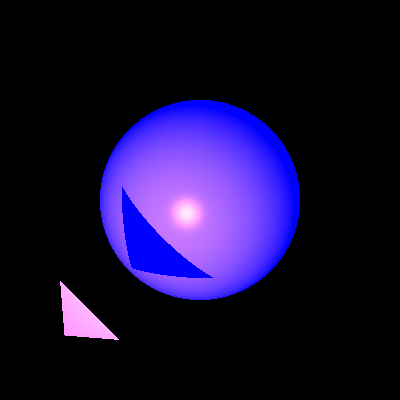
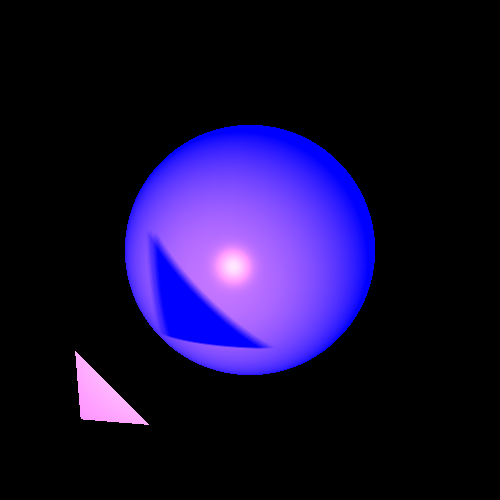
some refactoring

diff --git a/src/renderer/RayTracerBasic.java b/src/renderer/RayTracerBasic.java
@@ -14,6 +14,7 @@ import static primitives.Util.isZero;
 /**
  * The RayTracerBasic class is responsible for performing basic ray tracing operations.
  */
+
 public class RayTracerBasic extends RayTracerBase {
 
     private static final int MAX_NUMBER_OF_SHADOW_RAYS = 1;
@@ -104,12 +105,18 @@ public class RayTracerBasic extends RayTracerBase {
                 if (nl * nv > 0) { // sign(nl) == sing(nv)
                     Double3 ktr = transparency(lightSource, l,n,geo);
                     if (!ktr.product(k).lowerThan(MIN_CALC_COLOR_K)) {
-                        Color iL = lightSource.getIntensity(geo.point).scale(ktr);
-                        rayBeam = rayBeam.add(iL.scale(calcDiffusive(material, nl)), iL.scale(calcSpecular(material,nl, n, l , v)));
+                        // Color iL = lightSource.getIntensity(geo.point).scale(ktr);
+                        //rayBeam = rayBeam.add(iL.scale(calcDiffusive(material, nl)), iL.scale(calcSpecular(material,nl, n, l , v)));
+                        Double3 diff = calcDiffusive(material, nl);
+                        Double3 spec = calcSpecular(material, nl, n, l, v);
+                        Color Il = lightSource.getIntensity(geo.point).scale(diff.add(spec));
+                        rayBeam = rayBeam.add(Il.scale(ktr));
                     }
                 }
             }
-            color = color.add(rayBeam.reduce(vectors.size()));
+            rayBeam = rayBeam.reduce(vectors.size());
+            color = color.add(rayBeam);
+            // color = color.add(rayBeam.reduce(vectors.size()));
 
         }
         return color;
@@ -290,4 +297,3 @@ public class RayTracerBasic extends RayTracerBase {
         return intersections == null ? null : ray.findClosestGeoPoint(intersections);
     }
 }
-

diff --git a/src/lighting/PointLight.java b/src/lighting/PointLight.java
@@ -1,11 +1,13 @@
 package lighting;
 
+import geometries.Plane;
 import primitives.Color;
 import primitives.Point;
 import primitives.Vector;
 
 import java.util.LinkedList;
 import java.util.List;
+import java.util.Random;
 
 
 /**
@@ -98,8 +100,8 @@ public class PointLight extends Light implements LightSource {
     public List<Vector> getLightVectors(Point p) {
         List<Vector> vectors = new LinkedList();
         //grid of vectors around the light
-        for (double i = -SIZE; i < SIZE; i += SIZE / 10) {
-            for (double j = -SIZE; j < SIZE; j += SIZE / 10) {
+        for (double i = -SIZE; i < SIZE; i ++) {
+            for (double j = -SIZE; j < SIZE; j ++) {
                 if (i != 0 && j != 0) {
                     //create a point on the grid
                     Point point = position.add(new Vector(i, 0.1d, j));

diff --git a/src/lighting/DirectionalLight.java b/src/lighting/DirectionalLight.java
@@ -40,9 +40,8 @@ public class DirectionalLight extends Light implements LightSource {
     }
 
     @Override
-    public List<Vector> getLightVectors(Point p) {
+    public List<Vector> getLightVectors(Point ignore){
         return null;
-        //return List.of(getL(p));
     }
 
 }

diff --git a/src/lighting/LightSource.java b/src/lighting/LightSource.java
@@ -44,4 +44,5 @@ public interface LightSource {
      * @return list of vectors
      */
     public List<Vector> getLightVectors(Point p);//, int numOfPoints);
+
     }

diff --git a/src/lighting/SpotLight.java b/src/lighting/SpotLight.java
@@ -68,4 +68,5 @@ public class SpotLight extends PointLight {
         return this;
     }
 
+
 }
